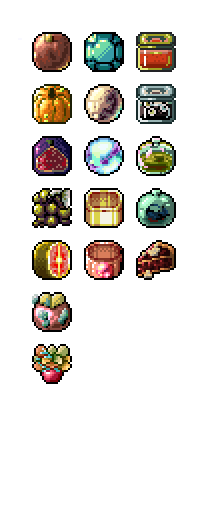
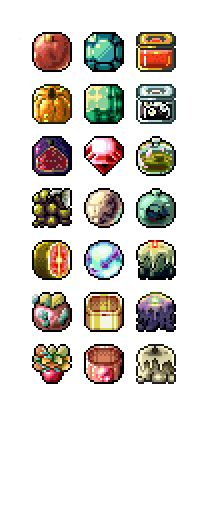
New ingredients - Fix for scores on replacing extra ingredient

diff --git a/src/scenes/MainScene.js b/src/scenes/MainScene.js
@@ -85,12 +85,14 @@ export default class MainScene extends Phaser.Scene
                 tree,
                 grid,
                 supply,
+                score,
             } = this;
             const voidIngredientsIds = [];
 
             this.moves++;
             spell.clearEffect();
 
+            // Grab new ingredient or apply spell
             if (tree.isBranchLevelUp(this.moves)) {
                 const voided = this.levelUpNewIngredient();
 
@@ -103,15 +105,20 @@ export default class MainScene extends Phaser.Scene
                 //Todo: apply effect
             }
 
+            // Replace extra ingredient
             if (supply.isReplaceExtraIngredient(this.moves)) {
-                const extraId = supply.updateExtraIngredient();
-                console.log('Fix: no scores added');
+                const { addId, removeId } = supply.updateExtraIngredient();
 
-                if (!voidIngredientsIds.includes(extraId)) {
-                    voidIngredientsIds.push(extraId);
+                if (addId && removeId) {
+                    score.addCurrentIngredient(addId, removeId);
+    
+                    if (!voidIngredientsIds.includes(removeId)) {
+                        voidIngredientsIds.push(removeId);
+                    }
                 }
             }
 
+            // Void all removed ingredients
             if (voidIngredientsIds.length) {
                 grid.voidByIngredientId(voidIngredientsIds.length === 1
                     ? voidIngredientsIds[0]

diff --git a/src/plugins/SupplyPlugin.js b/src/plugins/SupplyPlugin.js
@@ -123,7 +123,10 @@ export default class SupplyPlugin extends Phaser.Plugins.BasePlugin
             const probabilities = Object.values(this.#slots).map(id => ({ id, probability: 1/4 }));
             this.#updatePool(probabilities);
     
-            return oldId;
+            return {
+                removeId: oldId,
+                addId: randomExtra,
+            };
         }
 
         return false;
